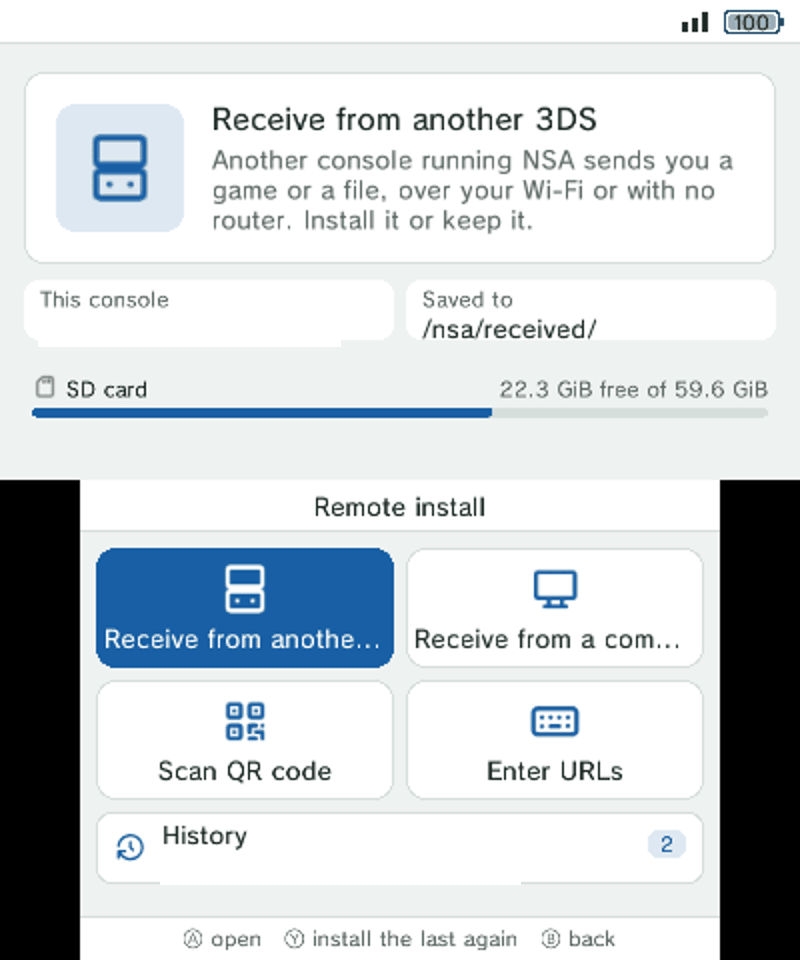
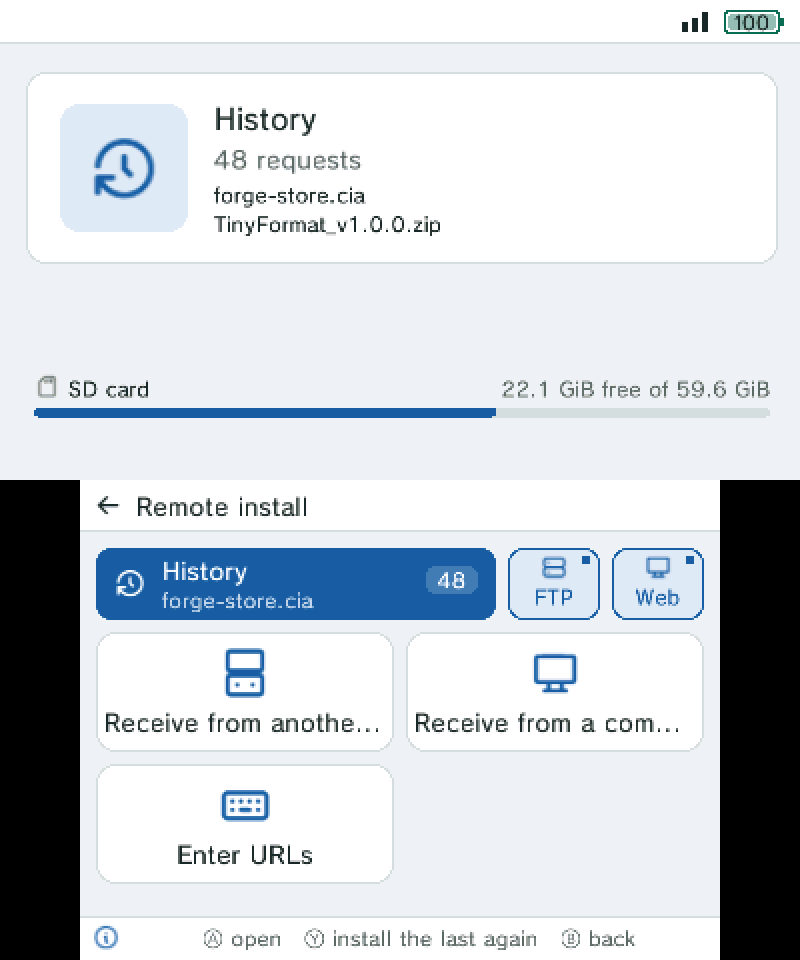
README: NSA 1.0, with new pictures
The main menu grid, Remote install's layout, Utilities (OpenDSP,
Rehid, What takes the room), folder sizes, DS games and .3dsx in the
HOME Menu, the download queue, several titles at once, the Store's
removal, the game card, System's settings and tests, and credits for
Rehid, nds-bootstrap and its forwarder, and the LZMA SDK. New pictures
from a New 3DS XL running 1.0.0.

diff --git a/README.md b/README.md
@@ -21,7 +21,10 @@ channel. Some tools need Luma3DS, as FBI's did (listed below).
 
 - Install CIAs and tickets from the SD card, from a computer on your network, over the Internet
   with a URL or a QR code. Title seeds are imported on the way.
-- **Remote install** keeps a history of what you installed, to install it again.
+- **Remote install** keeps a history of what you installed, to install it again. Its tiles, the History bar and the FTP and
+  Web buttons can be moved or hidden (SELECT, or hold one).
+- A **download queue** that keeps going in the background, one download after another: pause, resume or reorder it
+  from the main menu or the web page.
 - **Links from web pages**: a store's "Send to 3DS" button (like Brewology's, made for 3dsDL) or a phone on your Wi-Fi
   can send links to `http://3ds.local/` (also `nsa.local`, or the console's address), the same way 3dsDL's Receive takes
   them (`/send?links=...`). The console asks before it downloads anything. On by default (Settings).
@@ -29,10 +32,15 @@ channel. Some tools need Luma3DS, as FBI's did (listed below).
   connections at once) or with no router at all. The other console picks what to do: install now,
   or save it in a folder (a save sent this way is imported or kept with the other exports). A cut transfer goes on where it stopped. Every send and receive is logged
   in `sdmc:/nsa/transfer-log.txt`.
+- **Send several titles at once**: mark them in Titles and press START; the other console takes them all with one answer.
 - **Export an installed title as a CIA** (installing it again needs Luma3DS).
+- **A `.3dsx` in the HOME Menu** as a real title (not a forwarder), with its icon and a banner made from it or from a
+  picture of yours, and **a DS game (`.nds`) in the HOME Menu**: an icon that starts it with nds-bootstrap. NSA checks
+  that nds-bootstrap and its forwarder are on the SD card first, and downloads them when they are missing.
 
 <p align="center">
-  <img src="docs/images/remote-install.png" width="360" alt="Remote install">
+  <img src="docs/images/remote-install.png" width="360" alt="Remote install, with the History bar on top">
+  <img src="docs/images/remote-install-edit.png" width="360" alt="Remote install's layout being edited: a tile hidden">
   <img src="docs/images/receive-3ds.png" width="360" alt="Receiving from another 3DS">
 </p>
 
@@ -46,6 +54,8 @@ channel. Some tools need Luma3DS, as FBI's did (listed below).
   mods for 3DS games (into `/luma/titles/`), games for other consoles, RetroArch cores... NSA follows each file's steps
   as Universal-Updater does, asking before it deletes a folder. Universal-DB is made by
   [Universal-Team](https://universal-team.net/): thank you.
+- **Remove what the Store installed**: NSA notes every file an app's steps write, so it can take exactly those away
+  again (texture packs, mods, plugins...). Apps that write to `boot.firm`, `/luma` or `/gm9` show a red warning first.
 
 <p align="center">
   <img src="docs/images/store-actions.png" width="360" alt="An app of the Store and its actions">
@@ -71,6 +81,8 @@ channel. Some tools need Luma3DS, as FBI's did (listed below).
   a backup can be restored, sent to another 3DS or deleted.
 - **Tickets**, **Ext Save Data** and **Pending titles** (interrupted installs and downloads) on the
   same pattern: pictures, filters, search, and actions in a sheet, with what deletes in red.
+- **The game card** in the console shows up in Titles, and its save can be backed up.
+- The console's own software is marked in red, and deleting it asks twice.
 - Export, import and erase the save data of DS cartridges.
 - **Web page** (off until you turn it on in Settings): manage the console from your computer's browser (the SD card, titles with icons, saves,
   installing from files or URLs, saves and their backups to download, restore or delete, and the console's screens live with its buttons), in the console's own theme, protected by a PIN shown on the console. Plain HTTP, for your own network only.
@@ -89,6 +101,14 @@ channel. Some tools need Luma3DS, as FBI's did (listed below).
   editor** with its own keyboard, and an **audio player** (MP3, WAV, FLAC, Ogg Vorbis) that plays the
   folder in order. Pictures and `.3dsx` programs show a preview in the list.
 - Run a `.3dsx` from the list (needs Luma3DS).
+- **Select several** files or folders to copy, move, install or delete at once; extract `.zip` and `.7z` on the console.
+- **Calculate size** in a folder's actions counts everything in it and shows **what takes the room**: its contents
+  biggest first, each with its share, and its folders to go into. Folders counted show their size in the list.
+
+<p align="center">
+  <img src="docs/images/what-takes-the-room.png" width="360" alt="What takes the room: a folder's contents, biggest first">
+  <img src="docs/images/folder-sizes.png" width="360" alt="Folders with their size in the list">
+</p>
 
 <p align="center">
   <img src="docs/images/files.png" width="360" alt="Browsing the SD card">
@@ -98,6 +118,22 @@ channel. Some tools need Luma3DS, as FBI's did (listed below).
   <img src="docs/images/text-viewer.png" width="360" alt="The text viewer">
   <img src="docs/images/text-editor.png" width="360" alt="Editing with NSA's own keyboard">
   <img src="docs/images/audio-player.png" width="360" alt="The audio player">
+</p>
+
+### Utilities
+
+What Luma3DS's Rosalina menu or GodMode9 were opened for, in one list:
+
+- **DSP firmware** (`/3ds/dspfirm.cdc`, the sound of homebrew): dump the console's, or put
+  [OpenDSP](https://github.com/Cellenseres/OpenDSP), an open source one, from GitHub or from the copy NSA carries.
+- **Game patching**: Luma3DS's option, on or off.
+- **What takes the room** on the whole SD card.
+- **Button remapping** with [Rehid](https://github.com/hax0kartik/rehid): other buttons in every game, or in one
+  (turbo, buttons that touch the screen, the Circle Pad as D-Pad...). NSA installs Rehid from its GitHub release.
+- **Restart** and **Power off**.
+
+<p align="center">
+  <img src="docs/images/utilities.png" width="360" alt="Utilities">
 </p>
 
 ### Advanced (only with NSA installed as a CIA, or run as a 3DSX under Luma3DS)
@@ -113,15 +149,17 @@ SD card. These are drawn in a soft red because a wrong change can stop the conso
 
 ### Look and feel
 
-- **Your own main menu**: three big tiles and a row of icons. Hold an entry, or press SELECT, to
-  reorder them by dragging, or hide the ones you do not use.
+- **Your own main menu**: a grid six cells across, each entry big or small, wherever you want it. Hold an entry, or
+  press SELECT, to drag it anywhere (the others make room), make it big or small (R, or the button on its corner) or
+  hide it.
 - **A guide** that shows how NSA works in short tours on the real screens: a bubble points at each
   button and you do each step yourself. After an update it offers only what is new; Settings →
   Guide plays any chapter again.
 - **NSA's own keyboard** for searches, names, URLs and the text editor.
 - **Three themes**: *Cards*, *Pixel* (a pixel font, square corners and bars in blocks) and *HOME*
   (big icon tiles and dialogs as a sheet from the bottom), in day and night colours with eight
-  accent colours and a yellow one. Settings → Theme.
+  accent colours and a yellow one. Settings → Theme. **Your own themes**, colour by colour, on the console or on the
+  web page (kept in `/nsa/themes/`).
 - English, Spanish, Catalan, French, German, Italian, Portuguese, Russian, Japanese and Chinese, simplified and traditional (a list in Settings), stereoscopic 3D on the top screen, touch and button controls everywhere
   (pressed look, long press for an item's actions, flick scrolling, draggable scrollbars), and optional
   interface sounds, each with its own volume slider (sounds and music).
@@ -129,10 +167,13 @@ SD card. These are drawn in a soft red because a wrong change can stop the conso
   variation, or a bossa with marimba. The last song of each style is kept and plays at once next time
   while a new one is made, and they crossfade.
 - A banner and a short jingle of its own in the HOME menu.
-- A **System** page with the console's model, versions, network, battery and storage.
+- A **System** page with the console's model, versions, network, battery and storage; **Console settings** (Wi-Fi
+  connections saved, edited or set up from a QR code, Date and time from the Internet, custom screen brightness) and
+  **Hardware tests** (buttons, touch screen, sticks, sliders and motion sensors).
+- **Changelog** in your language (Settings), and NSA's own boot logo when it starts from the HOME menu.
 
 <p align="center">
-  <img src="docs/images/menu-edit.png" width="360" alt="Editing the main menu">
+  <img src="docs/images/menu-edit.png" width="360" alt="Editing the main menu: a big entry with its size button, one hidden">
   <img src="docs/images/guide-tour.png" width="360" alt="A tour of the guide on the main menu">
   <img src="docs/images/guide.png" width="360" alt="The guide's chapters">
   <img src="docs/images/theme-pixel.png" width="360" alt="The Pixel theme">
@@ -189,3 +230,9 @@ version comes from the git tags (`tools/version.sh`).
   [quirc](https://github.com/dlbeer/quirc).
 - Open source DSP firmware: [OpenDSP](https://github.com/Cellenseres/OpenDSP) by Cellenseres (BSD 2-Clause, the
   licence in `romfs/opendsp/LICENSE.txt`). NSA carries a copy of its `opendsp.cdc` for consoles without internet.
+- Button remapping: [Rehid](https://github.com/hax0kartik/rehid) by hax0kartik, downloaded from its GitHub release (not
+  carried by NSA).
+- DS games in the HOME Menu: [nds-bootstrap](https://github.com/DS-Homebrew/nds-bootstrap) and its
+  [forwarder pack](https://github.com/RocketRobz/NTR_Forwarder) by the DS-Homebrew team and RocketRobz, and Olmectron's
+  forwarder template, all downloaded when needed.
+- `.7z` archives: 7-Zip's LZMA SDK by Igor Pavlov (public domain).
